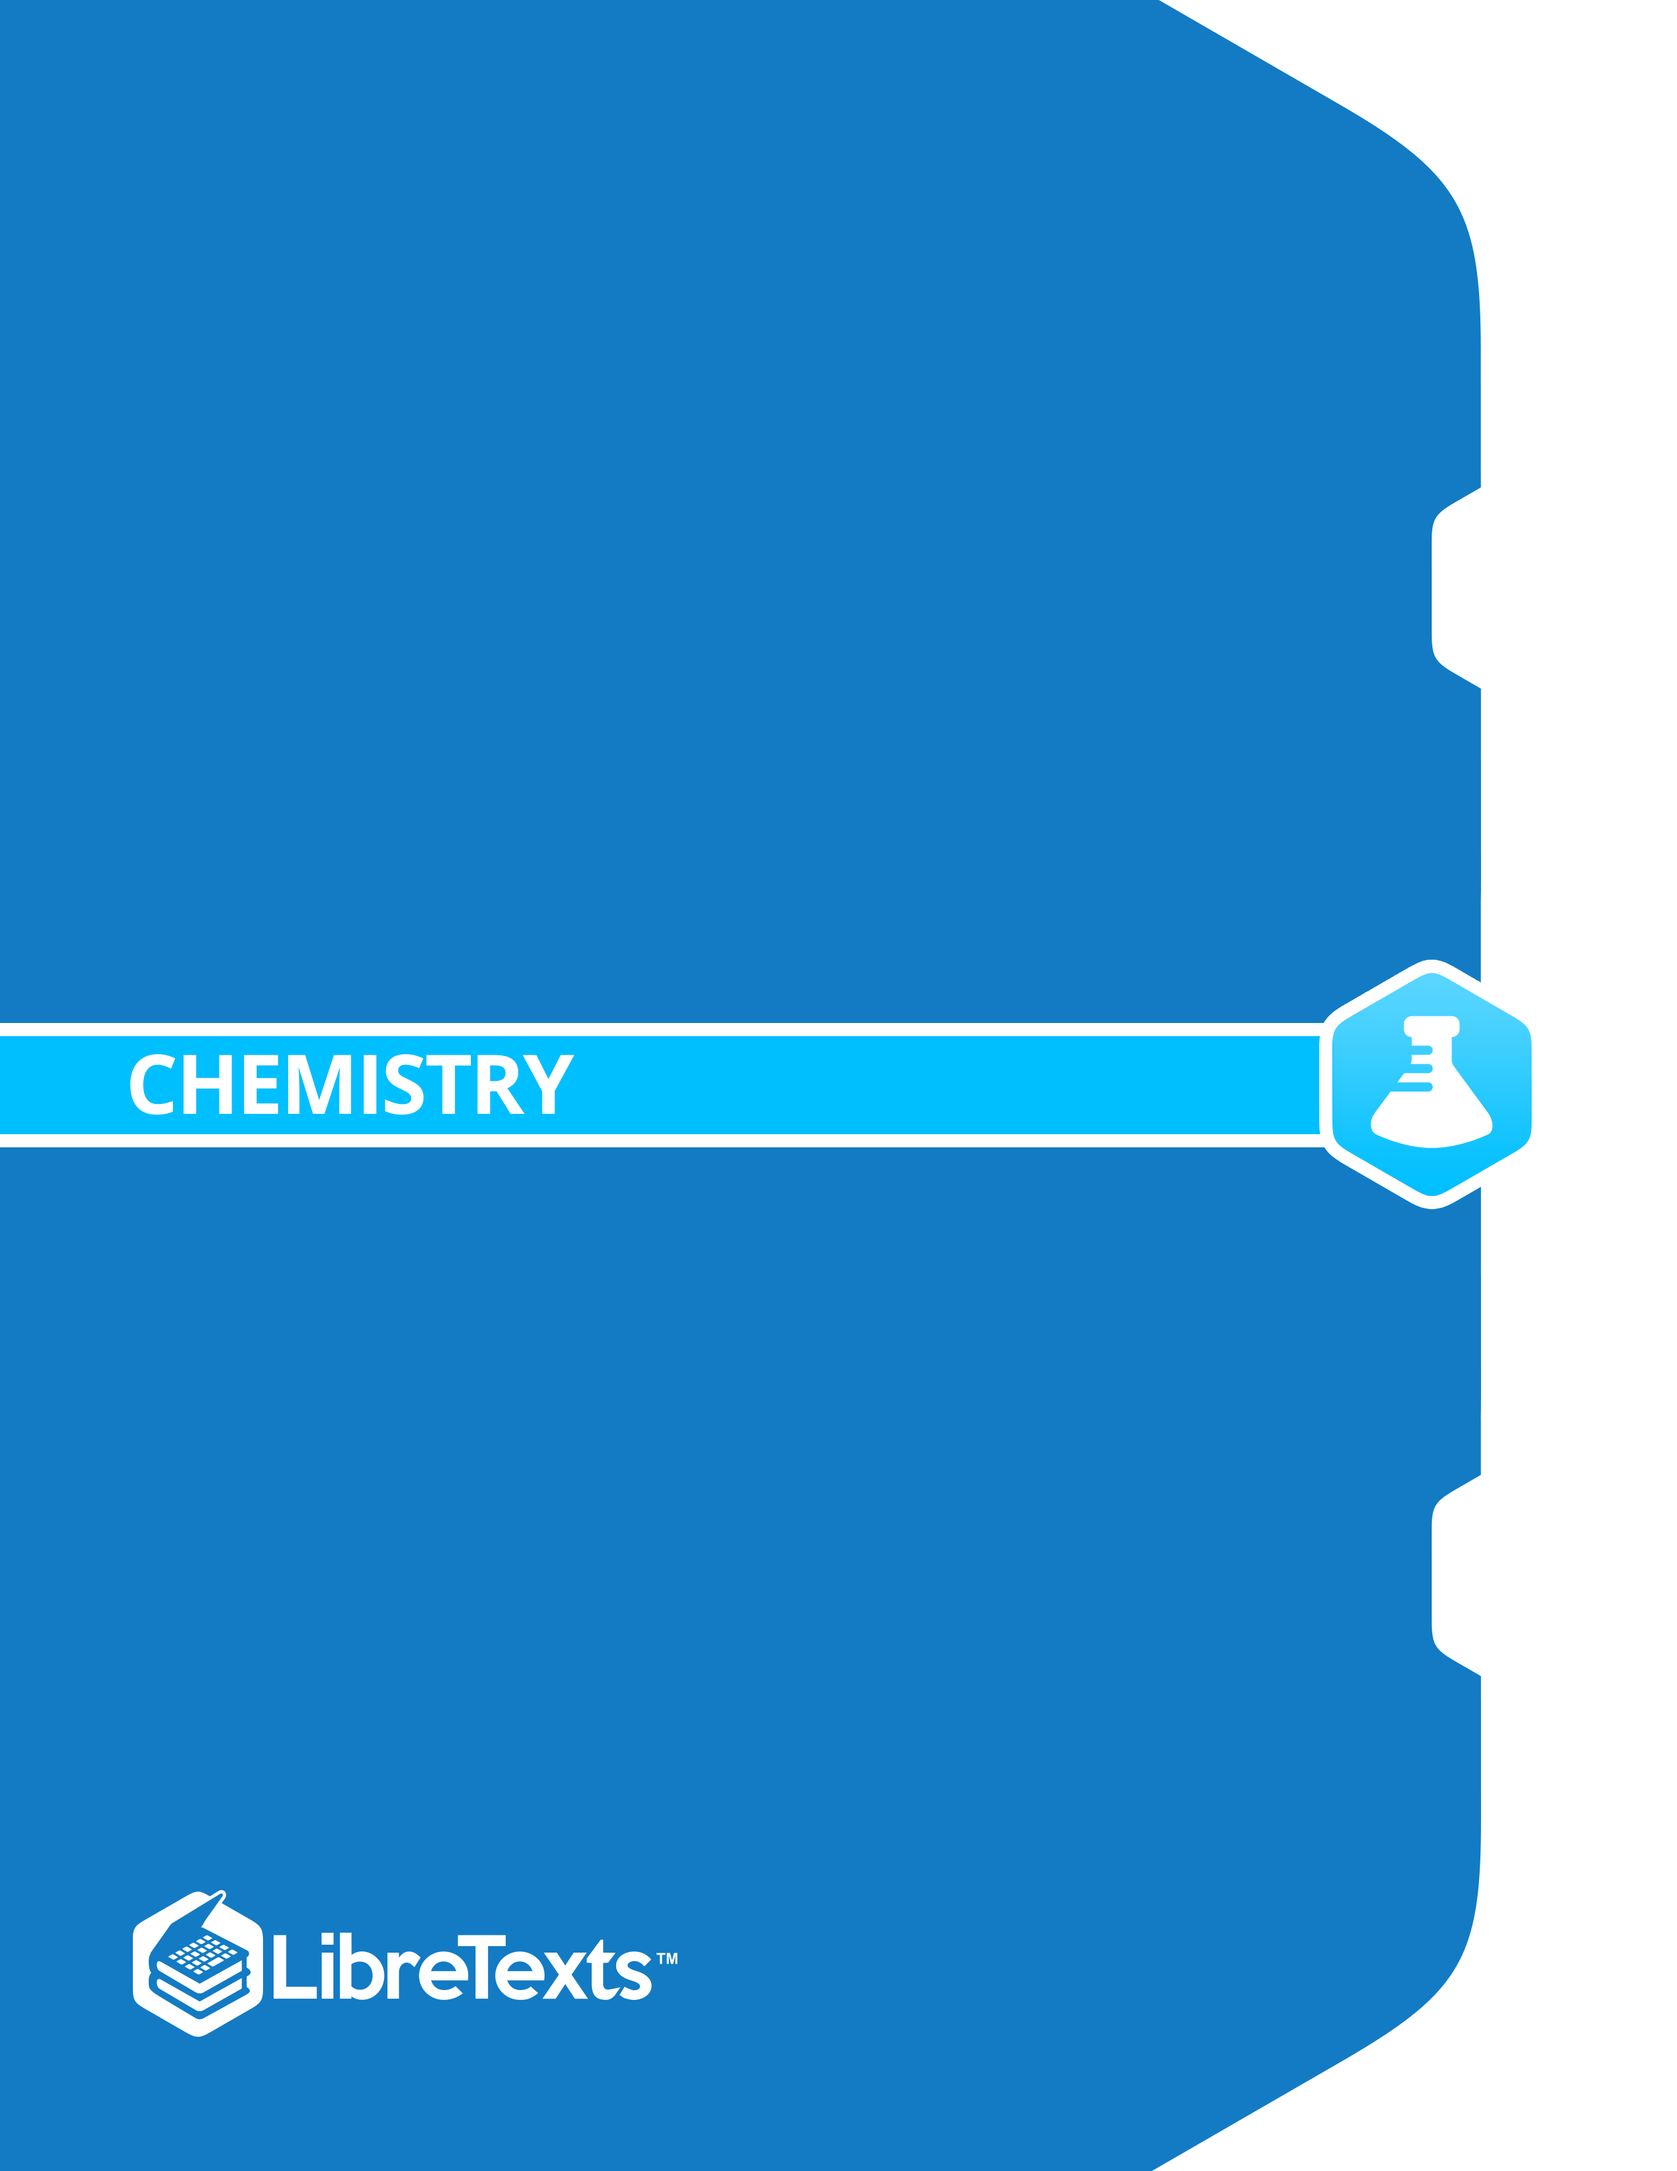
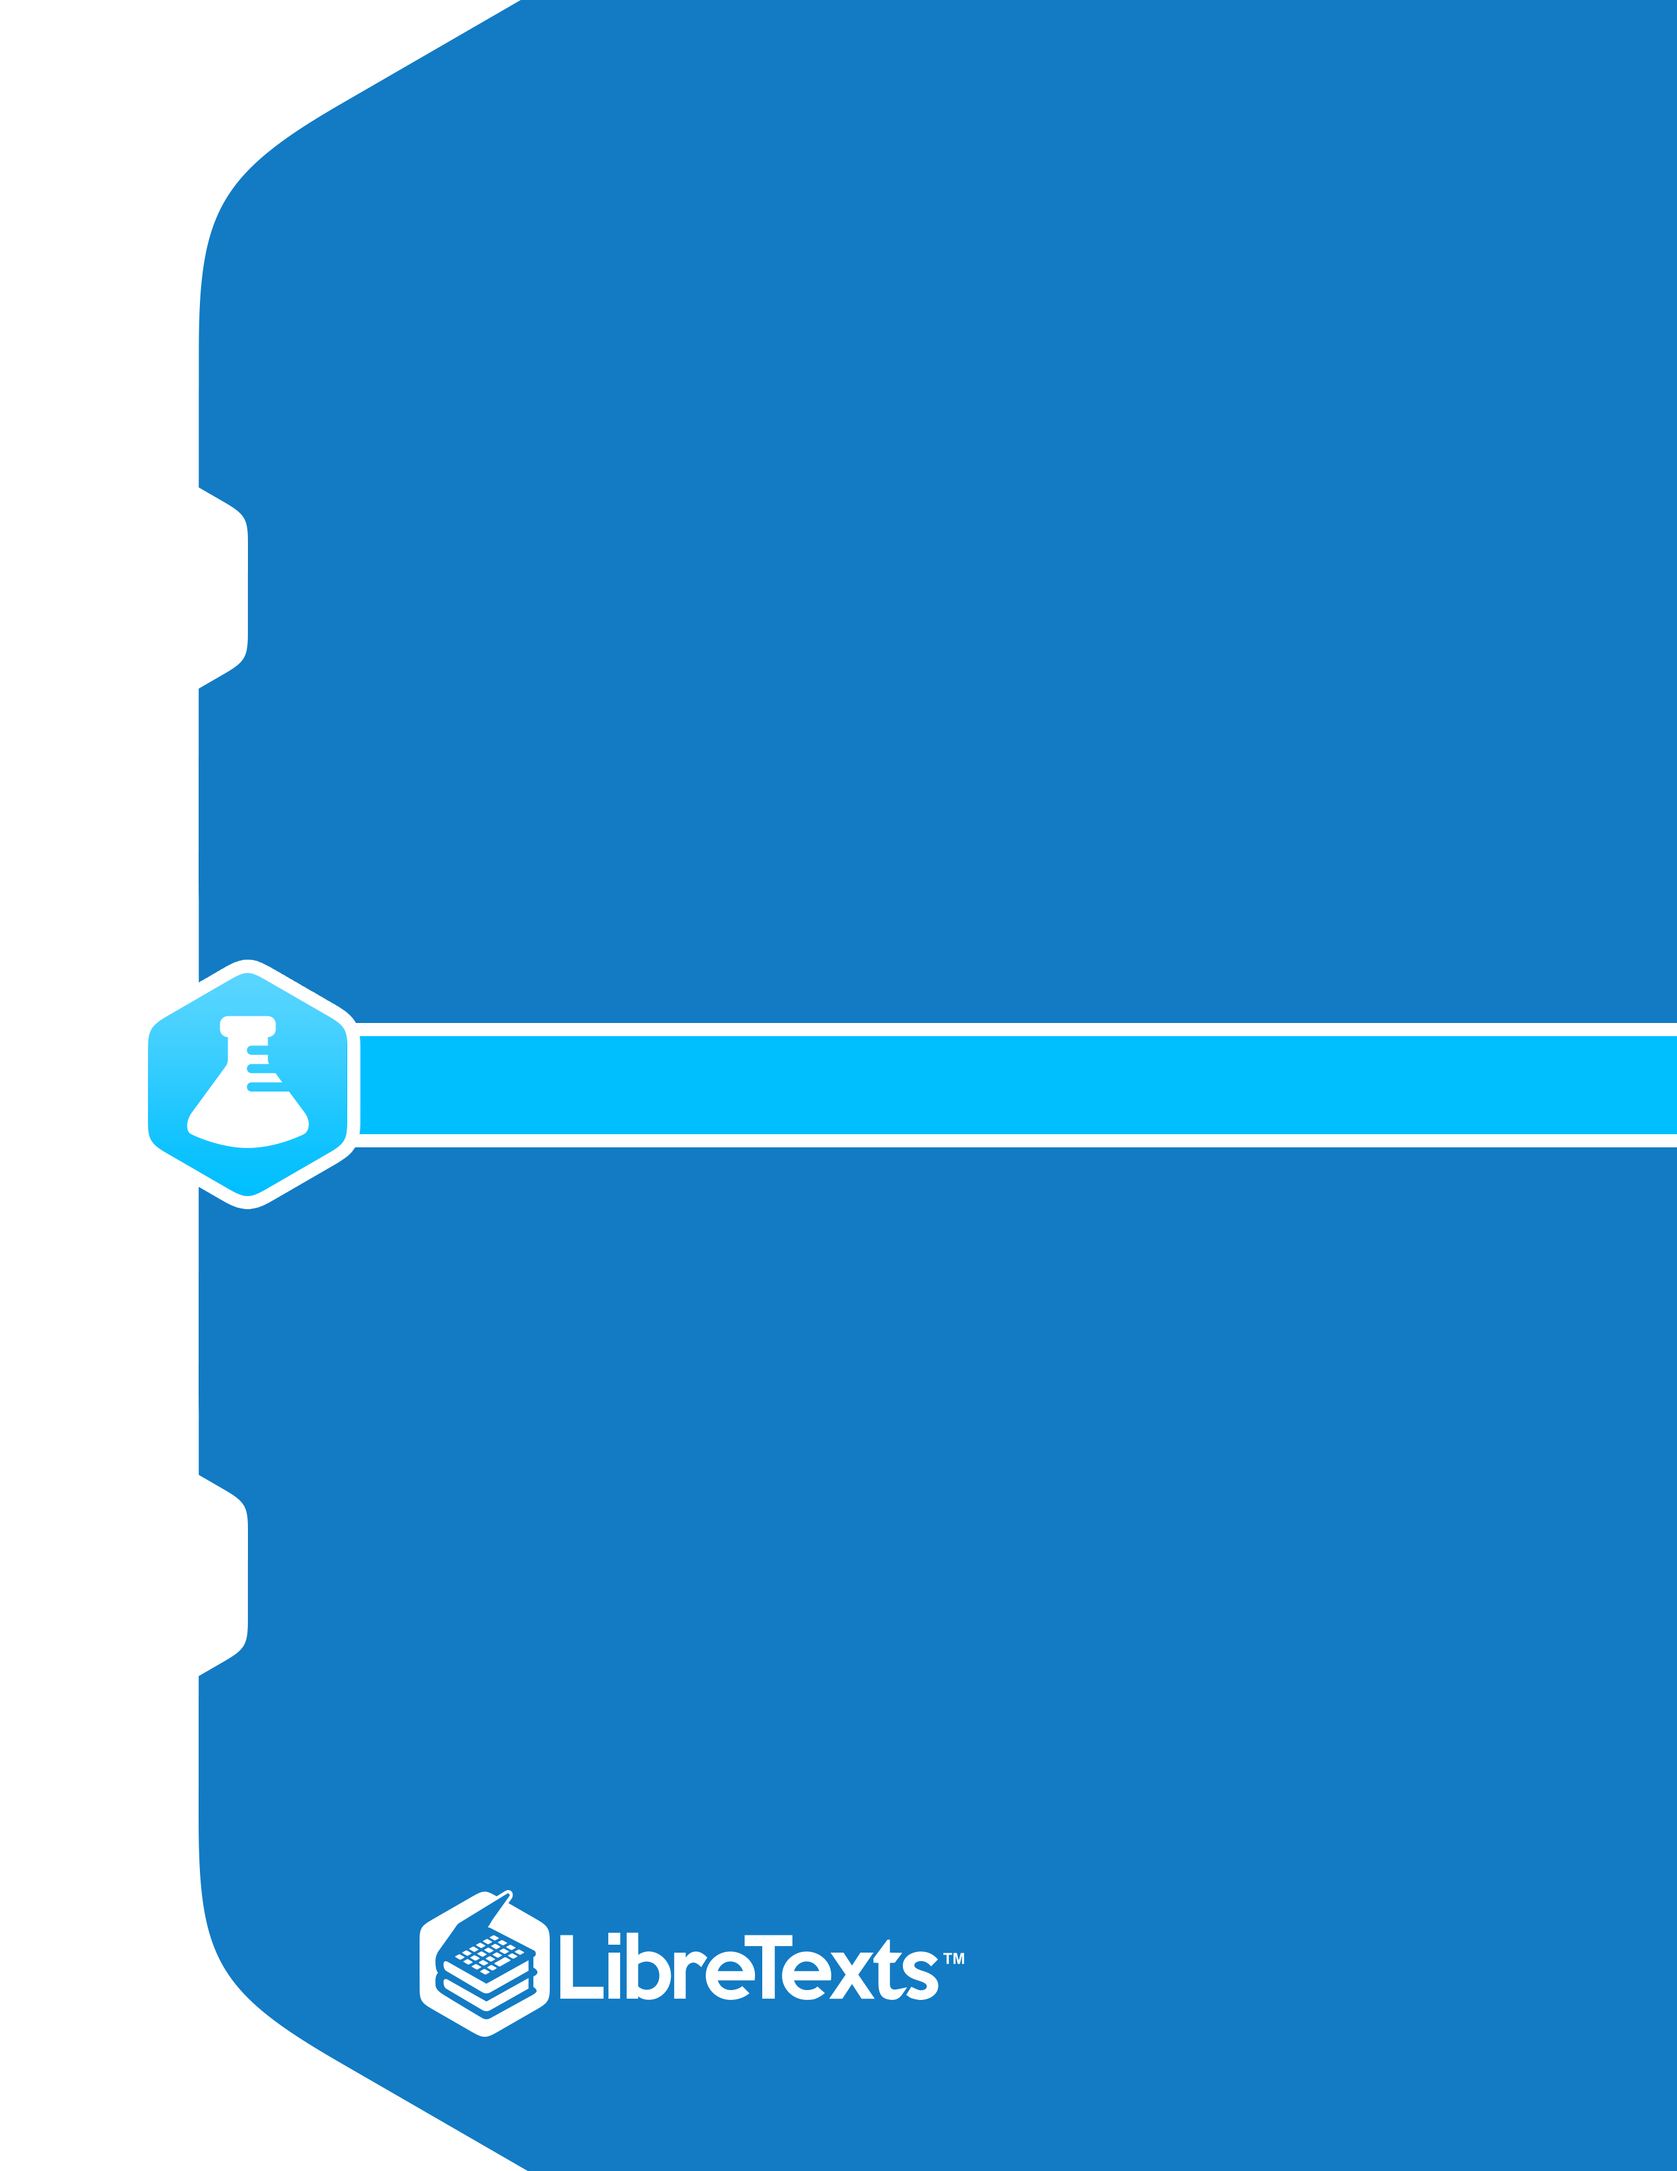
Added Spine

diff --git a/nodePrint/nodePrint.js b/nodePrint/nodePrint.js
@@ -183,7 +183,7 @@ puppeteer.launch({
 					subdomain: 'chem',
 					tags: ['lulu,CHEM 300 - Beginning Chemistry,Marisa Alviar-Agnew,Sacramento City College'] //'authorname:openstax'
 				};
-				let file = await getCover(current, url.includes('num') ? 478 : undefined); //, 478
+				let file = await getCover(current, url.includes('num') ? 478 : undefined, false, false); //, 478
 				staticFileServer.serveFile(`../PDF/Cover/${file}.pdf`, 200, {}, request, response);
 			}
 			else if (url.startsWith('/tocHTML=')) {
@@ -382,14 +382,14 @@ puppeteer.launch({
 		<link href="https://fonts.googleapis.com/css?family=Open+Sans:300,300i" rel="stylesheet"><style>#frontContainer{background-image: url("http://localhost:${port}/print/${hasExtraPadding ? 'LuluFront' : 'NormalFront'}/${current.subdomain}.png")}#backContainer{background-image: url("http://localhost:${port}/print/${hasExtraPadding ? 'LuluBack' : 'NormalBack'}/${current.subdomain}.png")</style>`;
 			let frontContent = `<div id="frontContainer"><div><div id="frontTitle">${current.title || ''}</div></div><div><div id="frontCite"><i>${author.name || ''}</i><br/>${author.companyname || ''}</div></div></div>`;
 			let backContent = `<div id="backContainer"></div>`;
-			let spine = `<div id="spine"></div><link rel="stylesheet" type="text/css" href="http://localhost:${port}/print/lulu.css"/>`;
-			if (hasExtraPadding && !isHardcover) {
-				spine += '<style>#frontContainer,#backContainer{width: 695px}</style>'
+			let spine = `<div id="spine"></div><link rel="stylesheet" type="text/css" href="http://localhost:${port}/print/lulu.css"/><style>#spine{background-image: url("http://localhost:${port}/print/${hasExtraPadding ? 'LuluSpine' : 'NormalSpine'}/${current.subdomain}.png")}></style>`;
+			if (hasExtraPadding) {
+				spine += `<style>#frontContainer,#backContainer{width: ${isHardcover ? 802 : 696}px}</style>`;
 			}
 			// <img src="http://localhost:${port}/print/header_logo_mini.png"/>
 			let content = numPages ? `${style}${backContent}${spine}${frontContent}` : `${style}${frontContent}`;
 			if (hasExtraPadding) {
-				content += `<style>#frontContainer {padding: 117px 50px;}</style>`
+				content += `<style>#frontContainer {padding: 117px 50px;}</style>`;
 			}
 			else {
 				content += '<style>#frontContainer,#backContainer{width: 735px}</style>'

diff --git a/nodePrint/public/cover.css b/nodePrint/public/cover.css
@@ -34,9 +34,11 @@ body {
 	display: flex;
 	flex: 1;
 	flex-direction: column;
-	justify-content: flex-start;
-	padding-top: 60px;
-	align-items: center;
+	justify-content: center;
+	padding: 60px 0;
+	align-items: stretch;
+	background-repeat: no-repeat;
+	background-size: 100% 100%;
 }
 #spine > img {
 	max-width: 80%;

diff --git a/nodePrint/public/lulu.css b/nodePrint/public/lulu.css
@@ -1,3 +1,7 @@
 #frontContainer > div {
 	margin-right: 190px;
 }
+*{
+	/*border: 1px solid lime;*/
+	box-sizing: content-box;
+}
